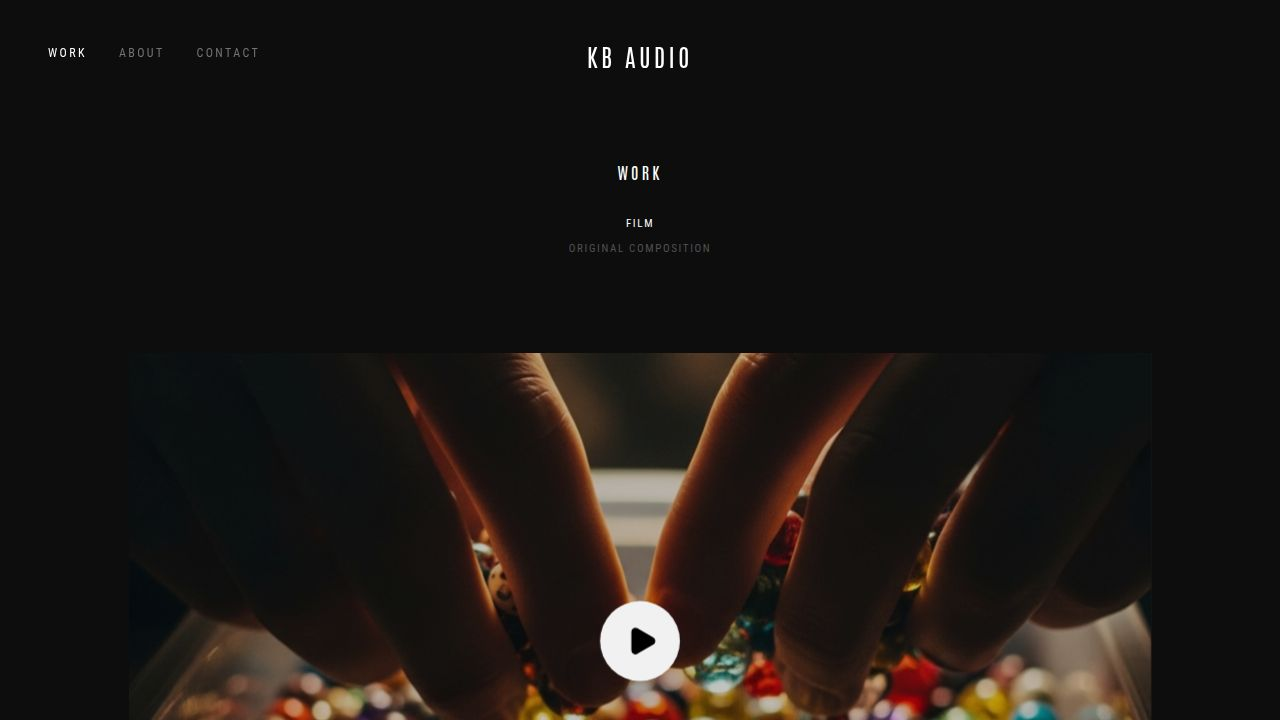
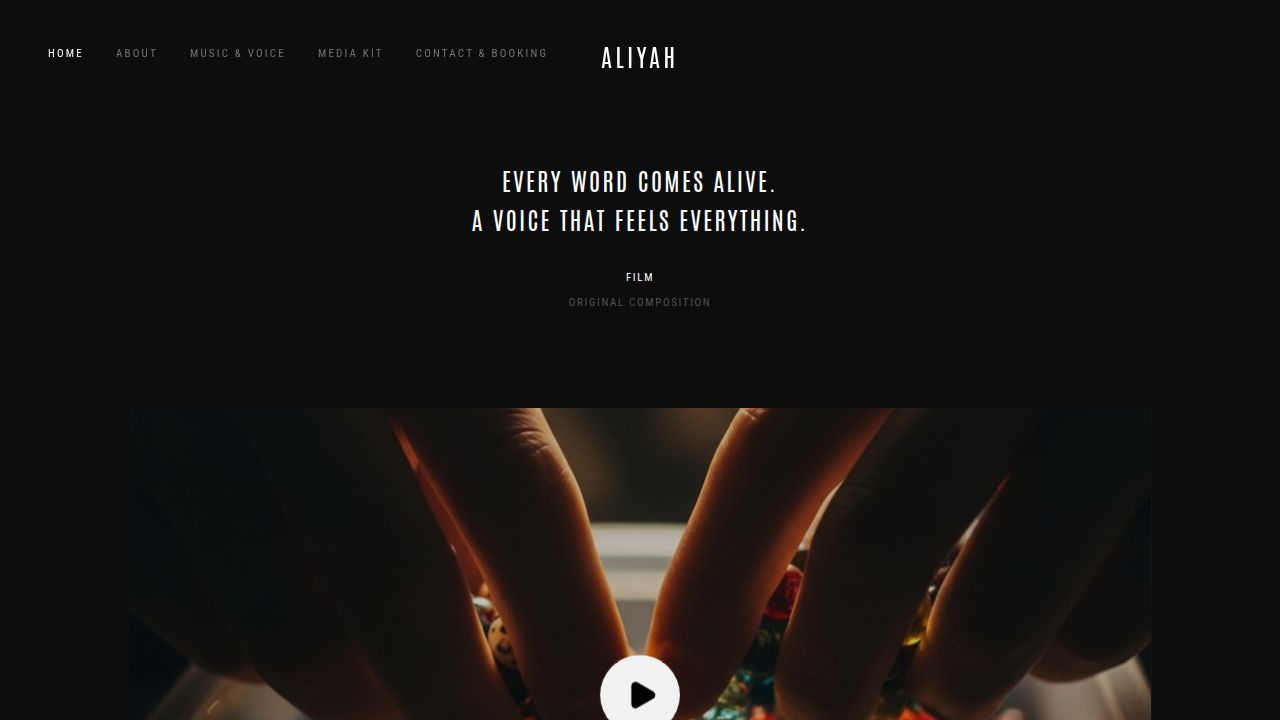
Update home page branding and artist biography
Update the site's branding from "KB Audio" to "ALIYAH", change the main heading to a new tagline, and add a detailed artist biography to the home page.

Replit-Commit-Author: Agent
Replit-Commit-Session-Id: abb7d197-0130-4365-8f3e-36aec6207882
Replit-Commit-Checkpoint-Type: full_checkpoint
Replit-Commit-Event-Id: ef88a7d3-4661-4f87-bff6-5d1866814852
Replit-Commit-Screenshot-Url: https://storage.googleapis.com/screenshot-production-us-central1/acc114d5-8ff7-4aa1-90f1-90320e5e6cb7/abb7d197-0130-4365-8f3e-36aec6207882/vte7QAW
Replit-Helium-Checkpoint-Created: true

diff --git a/client/src/pages/home.tsx b/client/src/pages/home.tsx
@@ -18,10 +18,10 @@ export default function Home() {
           initial={{ opacity: 0, y: 20 }}
           animate={{ opacity: 1, y: 0 }}
           transition={{ duration: 0.6, ease: "easeOut" }}
-          className="mb-16 md:mb-24 text-center"
+          className="mb-16 md:mb-24 text-center max-w-3xl"
         >
-          <h1 className="text-sm md:text-base font-display tracking-[0.2em] text-white uppercase mb-8">
-            Work
+          <h1 className="text-xl md:text-2xl font-display tracking-[0.1em] text-white uppercase mb-8 leading-relaxed">
+            Every word comes alive. <br className="hidden md:block"/> A voice that feels everything.
           </h1>
 
           {/* Category Filter */}
@@ -42,7 +42,7 @@ export default function Home() {
         </motion.div>
 
         {/* Projects Grid */}
-        <div className="w-full max-w-5xl flex flex-col gap-12 md:gap-24">
+        <div className="w-full max-w-5xl flex flex-col gap-12 md:gap-16">
           
           {/* Project Item 1 */}
           <motion.div 
@@ -70,6 +70,22 @@ export default function Home() {
                <span className="text-xs tracking-[0.2em] uppercase text-white font-display">Beadwork Documentary</span>
                <span className="text-[10px] tracking-[0.15em] uppercase text-neutral-400 font-sans">2024</span>
             </div>
+          </motion.div>
+
+          {/* Bio Text */}
+          <motion.div 
+            initial={{ opacity: 0, y: 20 }}
+            whileInView={{ opacity: 1, y: 0 }}
+            viewport={{ once: true }}
+            transition={{ duration: 0.8, delay: 0.2 }}
+            className="max-w-2xl mx-auto text-center space-y-6 px-4"
+          >
+             <p className="text-neutral-400 font-serif italic lowercase text-lg md:text-xl leading-relaxed tracking-wide">
+               aliyah is a texas-born singer and voice artist who pours her whole heart into everything she does. from soulful original tracks to bringing characters to life on screen, her voice has a way of making you feel something.
+             </p>
+             <p className="text-neutral-400 font-serif italic lowercase text-lg md:text-xl leading-relaxed tracking-wide">
+               aliyah is a singer, songwriter, and voice artist from texas with a simple philosophy: show up, be real, and sing like you mean it. whether she's in the studio recording original music or voicing characters for tv, she brings the same thing every time - all of herself.
+             </p>
           </motion.div>
 
            {/* Project Item 2 (Placeholder) */}

diff --git a/client/src/components/layout/Navbar.tsx b/client/src/components/layout/Navbar.tsx
@@ -34,7 +34,7 @@ export function Navbar() {
       <div className="md:absolute md:left-1/2 md:-translate-x-1/2 pointer-events-auto order-1 md:order-2">
         <Link href="/">
           <a className="text-xl md:text-2xl font-display uppercase tracking-[0.15em] text-white hover:opacity-80 transition-opacity">
-            KB Audio
+            ALIYAH
           </a>
         </Link>
       </div>
